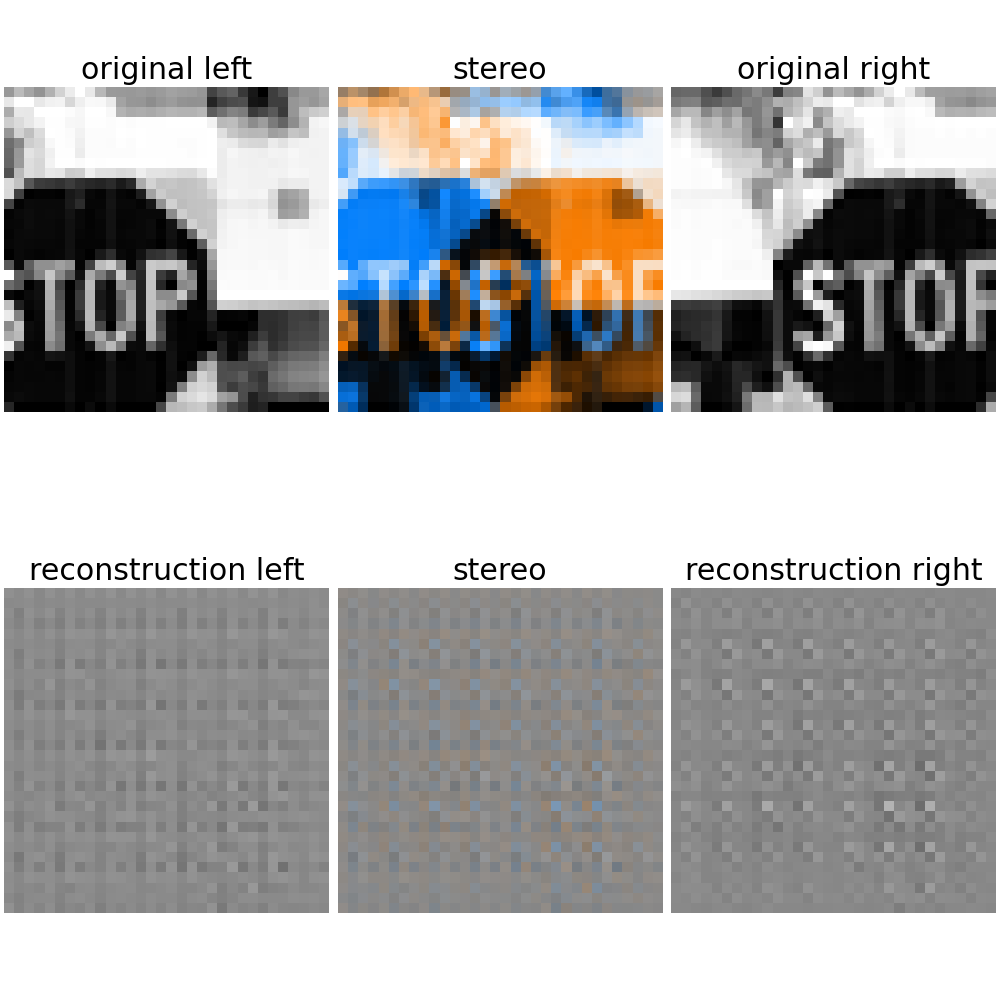
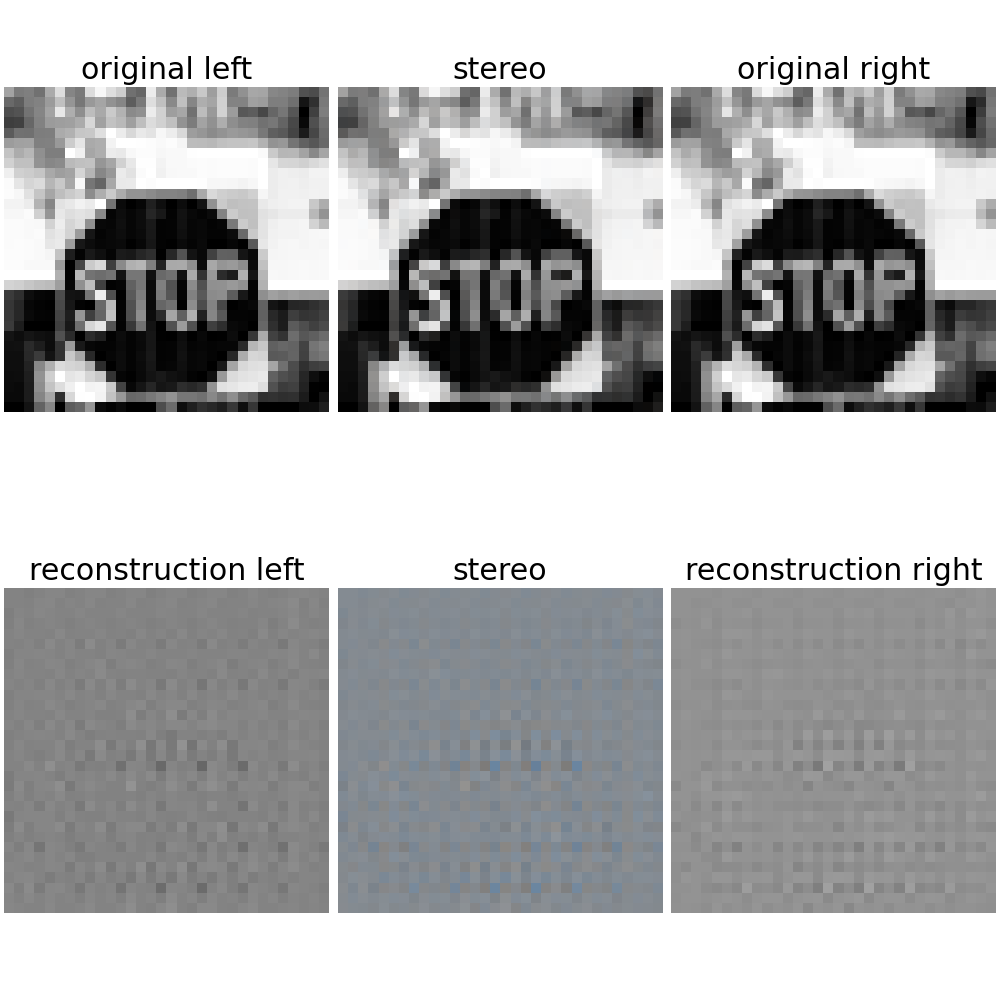
vergence switched off

diff --git a/utils/environment.py b/utils/environment.py
@@ -17,8 +17,8 @@ from utils.plots import plot_observations
 
 class Environment():
     
-    def __init__(self, action_to_angle=None, min_texture_dist=50, max_texture_dist=500, 
-                    min_camera_angle=0, max_camera_angle=4):
+    def __init__(self, action_to_angle=None, min_texture_dist=50, max_texture_dist=500,
+                 min_camera_angle=0, max_camera_angle=4):
         self.framework = Framework(width=256, height=256, fov=0.25)
         self.min_texture_dist = min_texture_dist
         self.max_texture_dist = max_texture_dist
@@ -37,17 +37,16 @@ class Environment():
 
     def new_episode(self, texture_dist=None, texture_file=None):
         if texture_dist is None:
-            texture_dist = self.min_texture_dist + (self.max_texture_dist-self.min_texture_dist)*1  # Edit verg  *np.random.random()
+            texture_dist = self.min_texture_dist + (self.max_texture_dist-self.min_texture_dist)*np.random.random()
         if self.framework.texture_node:
             self.framework.remove_texture()
         if texture_file:
             self.framework.change_texture(texture_file)
         self.framework.add_texture(texture_dist)
 
-    def perform_action(self, angle):  # Edit verg (self, action)
-        #angle = self.action_to_angle[action]  # Edit verg
-        print(angle)
-        self.framework.move_camera(angle, 
+    def perform_action(self, action):
+        angle = self.action_to_angle[action]
+        self.framework.move_camera(angle,
                                     min_camera_angle=self.min_camera_angle,
                                     max_camera_angle=self.max_camera_angle)
 
@@ -55,6 +54,7 @@ class Environment():
         img_left, img_right = self.framework.render_scene()
         img_left_fine, img_left_coarse = get_cropped_image(img_left)
         img_right_fine, img_right_coarse = get_cropped_image(img_right)
+        #plot_observations(img_left_coarse, img_right_coarse)  # Edit verg plotten lassen
         return img_left_fine, img_left_coarse, img_right_fine, img_right_coarse
 
 #class EnvironmentPool():
@@ -68,11 +68,11 @@ if __name__ == '__main__':
     _, img_left_coarse, _, img_right_coarse = environment.get_observations()
     mse = mean_squared_error(img_left_coarse, img_right_coarse)
     plot_observations(img_left_coarse, img_right_coarse, texture_dist=texture_dist,
-                camera_angle=environment.framework.camera_angle, mse=mse)
+                      camera_angle=environment.framework.camera_angle, mse=mse)
 
     camera_angle = dist_to_angle(texture_dist=texture_dist)
     environment.framework.move_camera(camera_angle+1)
     _, img_left_coarse, _, img_right_coarse = environment.get_observations()
     mse = mean_squared_error(img_left_coarse, img_right_coarse)
     plot_observations(img_left_coarse, img_right_coarse, texture_dist=texture_dist,
-                    camera_angle=environment.framework.camera_angle, mse=mse)
+                      camera_angle=environment.framework.camera_angle, mse=mse)

diff --git a/utils/embodiment.py b/utils/embodiment.py
@@ -27,8 +27,9 @@ def run_embodiment(name, textures, autoencoder_params, actor_critic_params, n_ep
 
 
 class Embodiment():
-    def __init__(self,name,textures,autoencoder_params=None, actor_critic_params=None,epsilon=1.0,n_actions=9,n_episodes=5,n_timesteps=10,):
-        super(Embodiment,self).__init__()
+    def __init__(self, name, textures, autoencoder_params=None, actor_critic_params=None, epsilon=1.0,
+                 n_actions=9, n_episodes=5, n_timesteps=10):
+        super(Embodiment, self).__init__()
 
         self.name = 'proc-%02d' % name
         self.environment = Environment()
@@ -45,8 +46,7 @@ class Embodiment():
         self.reward_c = 1
         self.min_texture_dist = 50
         self.max_texture_dist = 500
-        
-    
+
     def run(self, print_time=False):
         
         score = 0
@@ -56,9 +56,9 @@ class Embodiment():
             start = time.time()
             running_reward = 0
             
-            texture_file = self.textures[episode_idx%len(self.textures)]
-            texture_dist = self.min_texture_dist + (self.max_texture_dist-self.min_texture_dist)*np.random.random()
-            initial_camera_angle = dist_to_angle(texture_dist) - 1 + 2*np.random.random()
+            texture_file = self.textures[episode_idx % len(self.textures)]
+            texture_dist = self.min_texture_dist + (self.max_texture_dist-self.min_texture_dist)*1  # Edit verg *np.random.random()
+            initial_camera_angle = dist_to_angle(texture_dist)  # Edit verg  (...)- 1 + 2*np.random.random()
             self.environment.reset_camera(initial_camera_angle)
             self.environment.new_episode(texture_dist=texture_dist, texture_file=texture_file)
 
@@ -71,8 +71,7 @@ class Embodiment():
                 encoding_fine, reconstruction_loss_fine = self.agent.get_encoding(observation_fine)
                 encoding_coarse, reconstruction_loss_coarse = self.agent.get_encoding(observation_coarse)
                 action = self.agent.choose_action(encoding_fine, encoding_coarse)
-                correct_verg_angle = dist_to_angle(500)  # Edit verg
-                self.environment.perform_action(correct_verg_angle)  # Edit verg (action)
+                #self.environment.perform_action(action)  # Edit verg
 
                 img_left_fine, img_left_coarse, img_right_fine, img_right_coarse = self.environment.get_observations()
                 new_observation_fine = img_to_obs(img_left_fine, img_right_fine)

diff --git a/src/experiment.py b/src/experiment.py
@@ -112,11 +112,11 @@ def main():
 
                 for idx in range(n_processes):
                     processes.append(executor.submit(run_embodiment,
-                                                    names[idx],
-                                                    texture_files,
-                                                    autoencoder_params,
-                                                    actor_critic_params,
-                                                    n_episodes_per_epoch))
+                                                     names[idx],
+                                                     texture_files,
+                                                     autoencoder_params,
+                                                     actor_critic_params,
+                                                     n_episodes_per_epoch))
 
                 for process in concurrent.futures.as_completed(processes):
                     process_buffer, score = process.result()
@@ -132,7 +132,7 @@ def main():
         train_ae_loss.append(train_ae_epoch_loss)
 
         # Outputs:
-        if epoch <= 100 and epoch % 10 == 0 or epoch <= 1000 and epoch%100 == 0 or epoch % 1000 == 0:
+        if epoch <= 100 and epoch % 10 == 0 or epoch <= 1000 and epoch % 100 == 0 or epoch % 1000 == 0:
             plot_ae_loss(train_ae_loss)
             plot_ac_loss(train_ac_loss)
             plot_rewards(scores)

diff --git a/utils/plots.py b/utils/plots.py
@@ -27,9 +27,9 @@ def plot_observations(img_left, img_right, texture_dist=None, camera_angle=None,
     ax['original_right'].set_title('right')
     ax['original_right'].axis('off')
     
-    fig.suptitle('Distance: %.1f  MSE: %.2e \nAngle: %.2e  Expected angle: %.2e' % (
-                                texture_dist, mse, camera_angle,
-                                dist_to_angle(texture_dist)))
+    #fig.suptitle('Distance: %.1f  MSE: %.2e \nAngle: %.2e  Expected angle: %.2e' % (
+    #                            texture_dist, mse, camera_angle,
+    #                            dist_to_angle(texture_dist)))
     plt.show()
     plt.close()
 
@@ -76,7 +76,6 @@ def save_decoded_image(original, reconstruction, name, texture_dist=None, camera
                                       cmap='gray', vmin=-1, vmax=1)
     ax['reconstruction_right'].set_title('reconstruction right')
     ax['reconstruction_right'].axis('off')
-    print(texture_dist, camera_angle, mse)
     if texture_dist and camera_angle and mse:
         fig.suptitle('Distance: %.1f  MSE: %.2e \nAngle: %.2e  Expected angle: %.2e' % (
                                 texture_dist, mse, camera_angle, dist_to_angle(texture_dist)))

diff --git a/utils/framework.py b/utils/framework.py
@@ -91,9 +91,9 @@ class Framework():
 
     def move_camera(self, angle, min_camera_angle=-1, max_camera_angle=5):
         new_camera_angle = self.camera_angle + angle
-        if (new_camera_angle < min_camera_angle):
+        if new_camera_angle < min_camera_angle:
             new_camera_angle = min_camera_angle
-        if (new_camera_angle > max_camera_angle):
+        if new_camera_angle > max_camera_angle:
             new_camera_angle = max_camera_angle
         self.camera_angle = new_camera_angle
         self.camera_transform[0].rotate( angle, 0, 0)

diff --git a/utils/auxiliary.py b/utils/auxiliary.py
@@ -32,7 +32,7 @@ def img_to_obs(img_left, img_right):
     observation[1,:,:] = img_right
     return observation
 
-def dist_to_angle(texture_dist, eye_dist_to_center=3.4):
+def dist_to_angle(Edit, eye_dist_to_center=3.4):
     return atan(eye_dist_to_center/texture_dist)*180/pi
 
 def get_cropped_image(img):
